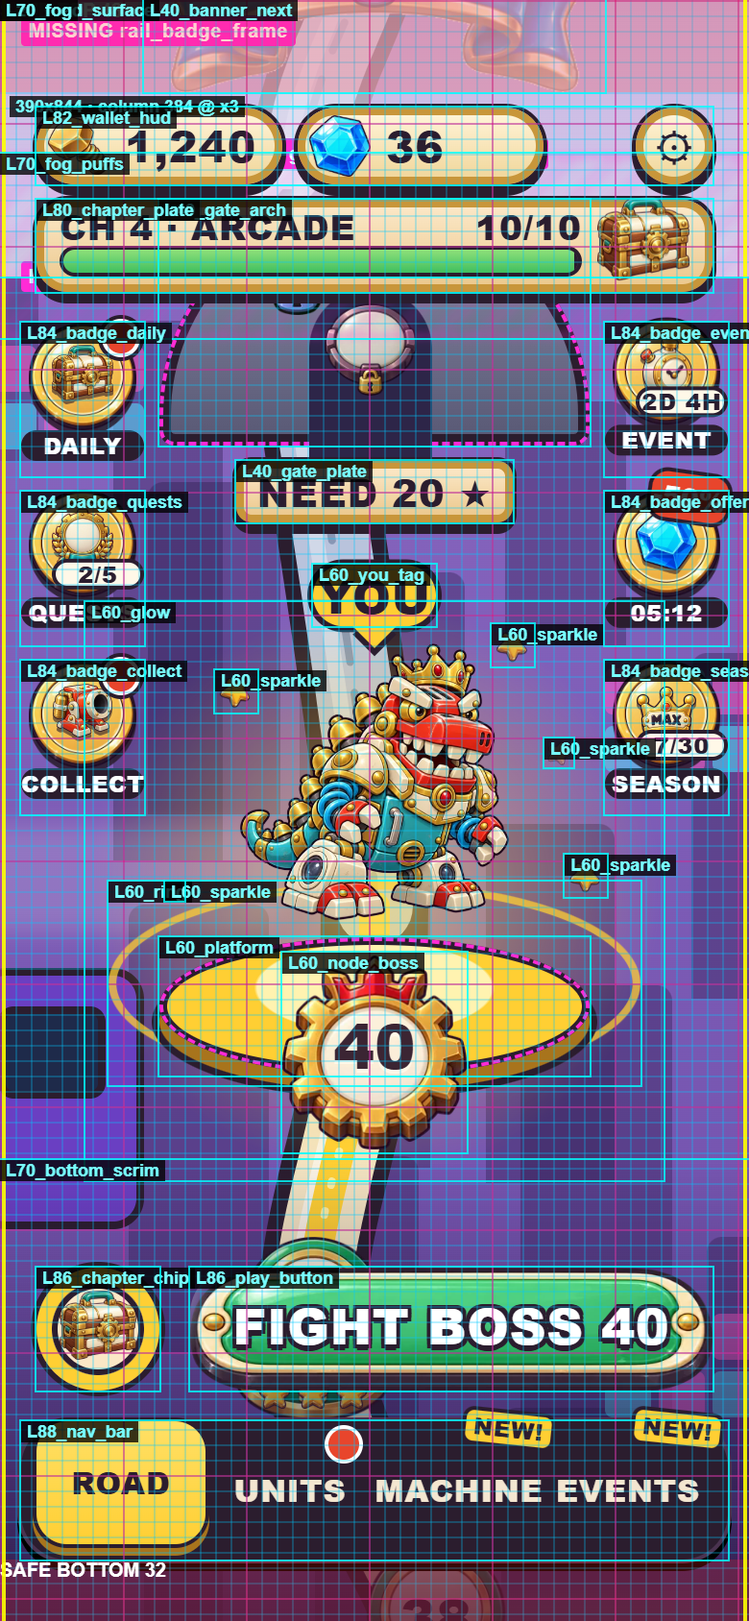
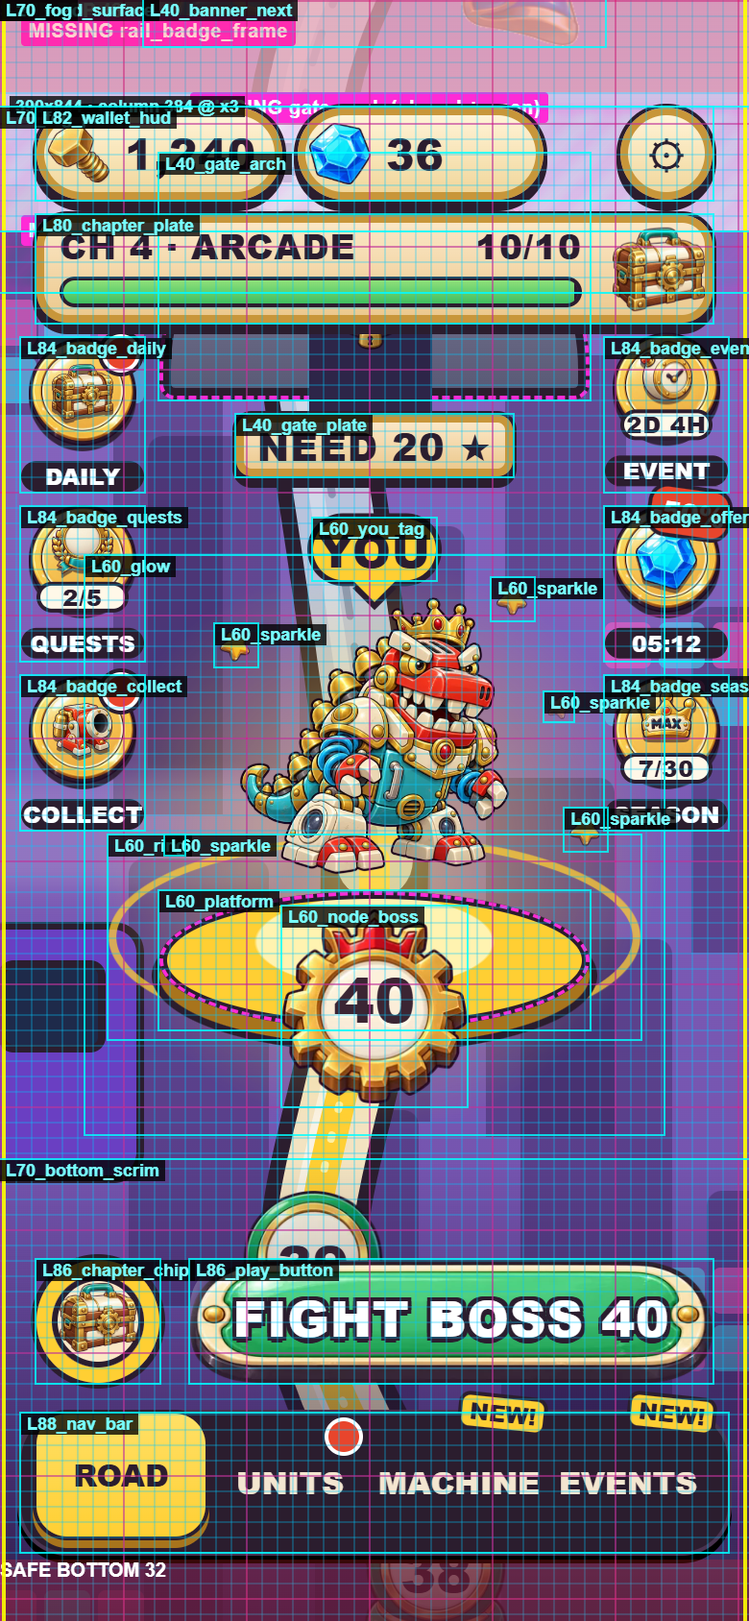
Road map mock: pixel check pass (8px grid, touch targets, text fit, layer order), audit mode, PIXEL_CHECK.md

diff --git a/art-candidates/mockups/road-map/index.html b/art-candidates/mockups/road-map/index.html
@@ -47,7 +47,7 @@ img{display:block;pointer-events:none}
 .a-chest{animation:chestRattle 3s ease-in-out infinite}.a-drift{animation:drift 38s linear infinite alternate}
 .glintwrap{overflow:hidden}.glintwrap::after{content:"";position:absolute;top:-10%;bottom:-10%;width:28%;left:0;background:linear-gradient(90deg,transparent,rgba(255,255,255,.75),transparent);animation:glint 3.4s ease-in-out infinite;pointer-events:none}
 /* ---- chrome ---- */
-.pill{height:40px;border-radius:20px;background:linear-gradient(#fff3d6,#f1d79c);border:4px solid var(--brass);box-shadow:0 0 0 2px var(--ink),0 4px 0 2px var(--ink);display:flex;align-items:center;gap:8px;padding:0 12px 0 4px;font-size:24px;line-height:32px}
+.pill{height:48px;border-radius:24px;background:linear-gradient(#fff3d6,#f1d79c);border:4px solid var(--brass);box-shadow:0 0 0 2px var(--ink),0 4px 0 2px var(--ink);display:flex;align-items:center;gap:8px;padding:0 12px 0 4px;font-size:24px;line-height:32px}
 .plate{background:linear-gradient(#fbe7c6,#ecc98e);border:4px solid var(--brass);border-radius:16px;box-shadow:0 0 0 2px var(--ink),0 4px 0 2px var(--ink)}
 .bar{height:16px;border-radius:8px;background:#5a4560;border:2px solid var(--ink);overflow:hidden;position:relative}
 .bar>i{position:absolute;left:0;top:0;bottom:0;background:linear-gradient(#8fe07a,#3fbf5f);border-right:2px solid var(--ink)}
@@ -61,8 +61,8 @@ img{display:block;pointer-events:none}
 .badge .coin{position:absolute;left:4px;top:0;width:56px;height:56px}
 .badge .coin img.base{position:absolute;inset:0;width:56px;height:56px;filter:drop-shadow(0 3px 0 rgba(43,29,46,.9))}
 .badge .coin img.ico{position:absolute;left:12px;top:10px;width:32px;height:32px}
-.badge .lab{position:absolute;left:0;top:56px;width:64px;height:16px;border-radius:8px;background:var(--ink);color:#fff;font-size:12px;line-height:16px;text-align:center;letter-spacing:.3px}
-.badge .chip{position:absolute;left:16px;top:36px;width:48px;height:16px;border-radius:8px;background:#fff8e8;border:2px solid var(--ink);font-size:12px;line-height:12px;text-align:center}
+.badge .lab{position:absolute;left:0;top:64px;width:64px;height:16px;border-radius:8px;background:var(--ink);color:#fff;font-size:12px;line-height:16px;text-align:center;letter-spacing:0;overflow:hidden}
+.badge .chip{position:absolute;left:8px;top:40px;width:48px;height:16px;border-radius:8px;background:#fff8e8;border:2px solid var(--ink);font-size:12px;line-height:12px;text-align:center}
 .badge .pct{position:absolute;right:-4px;top:-8px;width:40px;height:24px;background:var(--red);color:#fff;font-size:14px;line-height:24px;text-align:center;border-radius:8px;box-shadow:0 0 0 2px var(--ink);transform:rotate(8deg)}
 /* debug */
 #gridlay{position:absolute;inset:0;z-index:99;pointer-events:none;display:none;background-image:linear-gradient(to right,rgba(0,200,255,.28) 1px,transparent 1px),linear-gradient(to bottom,rgba(0,200,255,.28) 1px,transparent 1px);background-size:8px 8px}
@@ -80,9 +80,10 @@ const STATE=Q.get('state')||'normal', GRID=Q.get('grid')==='1', NAMES=Q.get('nam
 const W=+(Q.get('w')||390), H=+(Q.get('h')||844);
 const C=Math.floor(W/8)*8, X0=(W-C)/2;          // 8px content column, centred
 const SAFE_T=48, SAFE_B=32, S8=v=>Math.round(v/8)*8;
+const HB=Math.floor(H/8)*8;   // bottom-anchored layers hang from HB (840 / 776 / 928) so their y stays on the 8 grid; the 4 px slack sits inside the bottom safe area
 const INK='#2b1d2e';
 const P={normal:32,current:35,boss:40,locked:36,chapter:41,rails:32}[STATE];   // player's current level per state
-const FOCUS={normal:[32,.52],current:[35,.5],boss:[40,.56],locked:[40,.55],chapter:[41,.5],rails:[32,.58]}[STATE];
+const FOCUS={normal:[32,.52],current:[35,.5],boss:[40,.53],locked:[40,.55],chapter:[41,.5],rails:[32,.58]}[STATE];
 const phone=document.getElementById('phone');phone.style.cssText=`position:absolute;left:0;top:0;width:${W}px;height:${H}px;overflow:hidden`;
 const el=(tag,cls,st,parent,layer)=>{const e=document.createElement(tag);if(cls)e.className=cls;if(st)Object.assign(e.style,st);if(layer)e.dataset.layer=layer;(parent||phone).appendChild(e);return e};
 const img=(src,w,h,st,parent,cls)=>{const i=new Image();i.src=A+src+'.webp';i.width=w;i.height=h;i.style.cssText=`width:${w}px;height:${h}px;object-fit:contain`;if(cls)i.className=cls;if(st)Object.assign(i.style,st);(parent||phone).appendChild(i);return i};
@@ -94,7 +95,7 @@ const FIRST=27,LAST=44,PITCH=160;
 const wy={};{let y=3400;for(let n=FIRST;n<=LAST;n++){wy[n]=y;let gap=PITCH;if(n===39)gap=224;if(n===40)gap=352;if(n===30)gap=PITCH+48;y-=gap;}}   // chapter-4 entrance, boss gap, gate gap
 const DX=[0,48,72,40,-40,-72,-48,0], LIM=Math.min(C/2-136,56);
 const cx=n=>X0+C/2+Math.max(-LIM,Math.min(LIM,n===40?0:S8(DX[(n-FIRST)%8]*LIM/72)));
-const SCR=wy[FOCUS[0]]-S8(H*FOCUS[1]);
+const SCR=wy[FOCUS[0]]-S8(STATE==='boss'||STATE==='locked'?H*FOCUS[1]:Math.max(H*FOCUS[1],440));   // >=440 keeps the chest after L33 clear of the chapter plate on short phones
 const WH=3800;
 const world=el('div',null,{height:WH+'px',transform:`translateY(${-SCR}px)`},phone);world.id='world';
 const kind=n=>n===40?'boss':n===37?'mega':(n===35?'hard':'normal');
@@ -161,7 +162,7 @@ function node(n){
   if(locked){
     const lw=k==='boss'?96:88; if(k==='boss'){box(96,104,'node_boss',{filter:'saturate(.25) brightness(.8) hue-rotate(200deg)'});holder.style.top=y+'px'}
     else{box(88,88,'node_locked',{filter:'hue-rotate(185deg) saturate(.8) brightness(1.05)'});}
-    num(k==='boss'?0:-12,28,'#6d7a9b');return}
+    num(k==='boss'?0:-12,28,'#4f5d82');return}
 }
 function currentHero(h,n,k){
   const boss=k==='boss';
@@ -211,26 +212,26 @@ if(['normal','current','boss','rails'].includes(STATE)){
 // L70 bottom scrim keeps PLAY row legible
 el('div',null,{left:0,right:0,bottom:0,height:'240px',background:'linear-gradient(transparent,rgba(30,16,50,.78))',zIndex:70,pointerEvents:'none'},phone,'L70_bottom_scrim');
 // L80 chapter plate
-const cp=el('div','plate',{left:(X0+16)+'px',top:'104px',width:(C-32)+'px',height:'48px',borderRadius:'16px'},phone,'L80_chapter_plate');cp.style.zIndex=80;
-txt('CH 4 · ARCADE',18,INK,{position:'absolute',left:'8px',top:'-2px',lineHeight:'24px'},cp);
-const bar=el('div','bar',{position:'absolute',left:'8px',right:'64px',top:'20px'},cp);const fillPct=Math.max(0,Math.min(1,(Math.min(P,40)-30)/10));el('i',null,{width:(fillPct*100)+'%'},bar);
-txt(Math.max(0,Math.min(P,40)-30)+'/10',18,INK,{position:'absolute',right:'64px',top:'-2px',lineHeight:'24px'},cp);
-img('chest_closed',48,48,{position:'absolute',right:'8px',top:'-8px'},cp,STATE==='boss'?'a-wiggle':'');
+const cp=el('div','plate',{left:(X0+16)+'px',top:'112px',width:(C-32)+'px',height:'56px',borderRadius:'16px'},phone,'L80_chapter_plate');cp.style.zIndex=80;cp.dataset.tap='1';
+txt('CH 4 · ARCADE',18,INK,{position:'absolute',left:'8px',top:'0px',lineHeight:'24px'},cp);
+const bar=el('div','bar',{position:'absolute',left:'8px',right:'64px',top:'28px'},cp);const fillPct=Math.max(0,Math.min(1,(Math.min(P,40)-30)/10));el('i',null,{width:(fillPct*100)+'%'},bar);
+txt(Math.max(0,Math.min(P,40)-30)+'/10',18,INK,{position:'absolute',right:'64px',top:'0px',lineHeight:'24px'},cp);
+img('chest_closed',48,48,{position:'absolute',right:'0px',top:'0px'},cp,STATE==='boss'?'a-wiggle':'');
 // L82 wallet
-const wal=el('div',null,{left:(X0+16)+'px',right:(X0+16)+'px',top:'56px',height:'40px'},phone,'L82_wallet_hud');wal.style.zIndex=82;
-const pillW=(img_,s)=>{const p=el('div','pill txt',{width:'128px',position:'absolute',top:0,fontSize:'22px'},wal);p.style.left=s+'px';img(img_,32,32,{marginLeft:'-2px'},p);p.append('1,240');return p};
+const wal=el('div',null,{left:(X0+16)+'px',right:(X0+16)+'px',top:'56px',height:'48px'},phone,'L82_wallet_hud');wal.style.zIndex=82;
+const pillW=(img_,s)=>{const p=el('div','pill txt',{width:'128px',position:'absolute',top:0,fontSize:'22px'},wal);p.dataset.tap='1';p.style.left=s+'px';img(img_,32,32,{marginLeft:'-2px'},p);p.append('1,240');return p};
 pillW('bolt',0);const p2=pillW('icon_gem',136);p2.lastChild.textContent='36';
-const gear=el('div','pill',{position:'absolute',right:0,top:0,width:'40px',padding:0,justifyContent:'center',fontSize:'24px'},wal);gear.textContent='⚙';
+const gear=el('div','pill',{position:'absolute',right:0,top:0,width:'48px',padding:0,justifyContent:'center',fontSize:'24px'},wal);gear.dataset.tap='1';gear.textContent='⚙';
 // L84 badge rails
 const BADGES=[
  ['L','DAILY','chest_closed',{dot:1,wiggle:1}],['L','QUESTS','medal',{chip:'2/5'}],['L','COLLECT','cannon_4',{dot:1}],
  ['R','EVENT','icon_timer',{chip:'2d 4h'}],['R','OFFER','icon_gem',{pct:'-50%',chip:'05:12'}],['R','SEASON','crown',{chip:'7/30'}]];
 const li={L:0,R:0};
-BADGES.forEach(([side,name,ico,o])=>{const i=li[side]++;const x=side==='L'?X0+8:X0+C-72,y=168+i*88;
-  const b=el('div','badge',{left:x+'px',top:y+'px',zIndex:84},phone,'L84_badge_'+name.toLowerCase());
+BADGES.forEach(([side,name,ico,o])=>{const i=li[side]++;const x=side==='L'?X0+8:X0+C-72,y=176+i*88;
+  const b=el('div','badge',{left:x+'px',top:y+'px',zIndex:84},phone,'L84_badge_'+name.toLowerCase());b.dataset.tap='1';
   const bob=el('div',o.wiggle?'a-wiggle':'a-bob',{position:'absolute',inset:0,animationDelay:(-i*.5)+'s'},b);
   const coin=el('div','coin',null,bob);img('badge_bell',56,56,null,coin,'base');
-  img(ico,32,32,{position:'absolute',left:'12px',top:'10px',filter:'drop-shadow(0 2px 0 rgba(43,29,46,.6))'},coin);
+  img(ico,32,32,{position:'absolute',left:'12px',top:o.chip&&!o.pct?'4px':'12px',filter:'drop-shadow(0 2px 0 rgba(43,29,46,.6))'},coin);
   if(o.dot)el('div','dot',{right:'0',top:'0'},coin);
   if(o.pct){const p=el('div','pct',null,coin);p.textContent=o.pct}
   if(o.chip&&!o.pct){const c=el('div','chip txt',null,bob);c.textContent=o.chip}
@@ -240,33 +241,33 @@ BADGES.forEach(([side,name,ico,o])=>{const i=li[side]++;const x=side==='L'?X0+8:
 });
 sticker('rail_badge_frame',X0+8,8,phone).style.zIndex=99;
 // L86 bottom row: chapter chip + PLAY
-const chip=el('div',null,{left:(X0+16)+'px',top:(H-184)+'px',width:'64px',height:'64px',zIndex:86,borderRadius:'32px',background:`conic-gradient(var(--gold) ${Math.max(.05,fillPct)*360}deg,#5a4560 0)`,boxShadow:'0 0 0 3px '+INK},phone,'L86_chapter_chip');
+const chip=el('div',null,{left:(X0+16)+'px',top:(HB-184)+'px',width:'64px',height:'64px',zIndex:86,borderRadius:'32px',background:`conic-gradient(var(--gold) ${Math.max(.05,fillPct)*360}deg,#5a4560 0)`,boxShadow:'0 0 0 3px '+INK},phone,'L86_chapter_chip');chip.dataset.tap='1';
 el('div',null,{position:'absolute',inset:'8px',borderRadius:'24px',background:'var(--cream)',boxShadow:'inset 0 0 0 3px '+INK},chip);img('chest_closed',40,40,{position:'absolute',left:'12px',top:'10px'},chip);
-const pw=C-16-80-16,pl=el('div','glintwrap',{left:(X0+96)+'px',top:(H-184)+'px',width:pw+'px',height:'64px',zIndex:86,borderRadius:'24px'},phone,'L86_play_button');
+const pw=C-16-80-16,pl=el('div','glintwrap',{left:(X0+96)+'px',top:(HB-184)+'px',width:pw+'px',height:'64px',zIndex:86,borderRadius:'24px'},phone,'L86_play_button');pl.dataset.tap='1';
 img('btn_green',pw,64,{position:'absolute',inset:0,objectFit:'fill'},pl);
 const lvl=P>40?40:P;const pt=STATE==='boss'?'FIGHT BOSS 40':'PLAY LEVEL '+lvl;
 txt(pt,26,'#fff',{position:'absolute',left:0,right:0,top:'14px',textAlign:'center',lineHeight:'32px'},pl,'outl');
 // L88 nav
-const nav=el('div','nav',{left:(X0+8)+'px',top:(H-104)+'px',width:(C-16)+'px',height:'72px',zIndex:88},phone,'L88_nav_bar');
-const tw=(C-16-16)/4;[['ROAD',1],['UNITS'],['MACHINE'],['EVENTS']].forEach(([n,on],i)=>{const t=el('div','tab txt'+(on?' on':''),{left:(8+i*tw)+'px',width:(tw)+'px'},nav);t.textContent=n;t.style.fontSize=(C<368?'14px':'16px');if(n==='UNITS')el('div','dot',{right:'8px',top:'-4px'},t);if(i>=2){const g=el('div','tag',{right:'-4px',top:'-12px'},t);g.textContent='NEW!'}});
-nav.firstChild.style.left='8px';
+// tabs snap to 8: tw = floor((C-32)/4/8)*8 (88 / 80 / 96); bar = C-16 at X0+8; tab group centred (inner pad 8 / 8 / 12)
+const tw=Math.floor((C-32)/4/8)*8, navW=C-16, navX=X0+8, navPad=(navW-4*tw)/2;
+const nav=el('div','nav',{left:navX+'px',top:(HB-104)+'px',width:navW+'px',height:'72px',zIndex:88},phone,'L88_nav_bar');
+[['ROAD',1],['UNITS'],['MACHINE'],['EVENTS']].forEach(([n,on],i)=>{const t=el('div','tab txt'+(on?' on':''),{left:(navPad+i*tw)+'px',width:(tw)+'px',letterSpacing:'0'},nav);t.dataset.tap='1';t.dataset.gx=navX+navPad;t.textContent=n;t.style.fontSize=(tw<88?'14px':'16px');if(n==='UNITS')el('div','dot',{right:'8px',top:'-4px'},t);if(i>=2){const g=el('div','tag',{right:'0px',top:'-16px'},t);g.textContent='NEW!'}});
 
 /* ---------- state overlays ---------- */
 if(STATE==='rails'){
-  el('div',null,{inset:0,background:'rgba(20,10,30,.45)',zIndex:81},phone,'L90_dim').style.pointerEvents='none';
-  [['L',X0],['R',X0+C-80]].forEach(([s,x])=>{const r=el('div',null,{left:x+'px',top:'160px',width:'80px',height:'280px',border:'3px dashed var(--gold)',borderRadius:'16px',zIndex:89,background:'rgba(255,207,51,.08)'},phone,'L90_rail_outline_'+s)});
+  el('div',null,{inset:0,background:'rgba(20,10,30,.45)',zIndex:89},phone,'L90_dim').style.pointerEvents='none';   // above wallet, plate, play row and nav; below badges (90)
+  [['L',X0],['R',X0+C-80]].forEach(([s,x])=>{const r=el('div',null,{left:x+'px',top:'168px',width:'80px',height:'272px',border:'4px dashed var(--gold)',borderRadius:'16px',zIndex:89,background:'rgba(255,207,51,.08)'},phone,'L90_rail_outline_'+s)});
   // pull the badges above the dim
   document.querySelectorAll('[data-layer^=L84_badge]').forEach(b=>b.style.zIndex=90);
-  const tip=el('div','plate',{left:(X0+88)+'px',top:'168px',width:(C-176)+'px',height:'72px',zIndex:92,padding:'8px',transformOrigin:'0 50%',animation:'popIn .5s both'},phone,'L92_badge_tooltip');
-  txt('DAILY GIFT READY!',16,INK,{lineHeight:'24px'},tip);txt('TAP TO OPEN · +1 CRATE',12,'#6b4a2a',{lineHeight:'16px'},tip);
-  const pop=el('div',null,{left:(X0+C-176)+'px',top:'512px',width:'160px',height:'64px',zIndex:92},phone,'L92_rail_legend');
-  const lg=el('div','plate',{left:(X0+16)+'px',top:'472px',width:(C-32)+'px',height:'168px',zIndex:92,padding:'8px 12px'},phone,'L92_rail_legend_panel');
-  ['LEFT  daily · quests · collection','RIGHT  event · offer · season pass','64x80 badge · 88 pitch · max 3 a side','red dot = claimable · chip = timer'].forEach((s,i)=>txt(s,i<2?14:12,INK,{lineHeight:'24px',position:'absolute',left:'12px',top:(8+i*32)+'px'},lg));
+  const tip=el('div','plate',{left:(X0+80)+'px',top:'176px',width:(C-160)+'px',height:'64px',zIndex:92,padding:'0',transformOrigin:'0 50%',animation:'popIn .5s both'},phone,'L92_badge_tooltip');
+  txt('DAILY GIFT READY!',14,INK,{lineHeight:'24px',position:'absolute',left:0,right:0,top:'4px',textAlign:'center',letterSpacing:'0'},tip);txt('TAP TO OPEN · +1 CRATE',12,'#6b4a2a',{lineHeight:'16px',position:'absolute',left:0,right:0,top:'28px',textAlign:'center',letterSpacing:'0'},tip);
+  const lg=el('div','plate',{left:(X0+16)+'px',top:'456px',width:(C-32)+'px',height:'120px',zIndex:92,padding:'0'},phone,'L92_rail_legend_panel');
+  ['LEFT: DAILY · QUESTS · COLLECT','RIGHT: EVENT · OFFER · SEASON','BADGE 64x80 · PITCH 88 · MAX 3 A SIDE','RED DOT = CLAIMABLE · CHIP = TIMER'].forEach((s,i)=>txt(s,12,INK,{lineHeight:'16px',position:'absolute',left:'0',right:'0',textAlign:'center',top:(8+i*24)+'px',letterSpacing:'0'},lg));
 }
 if(STATE==='locked'){
-  const back=el('div','plate a-bob',{left:(X0+C/2-72)+'px',top:(H-184-48)+'px',width:'144px',height:'32px',zIndex:87,borderRadius:'16px'},phone,'L87_back_to_me');txt('▼ BACK TO ME · 36',14,INK,{position:'absolute',left:0,right:0,top:'0',textAlign:'center',lineHeight:'24px'},back);
+  const back=el('div','plate a-bob',{left:(X0+C/2-88)+'px',top:(HB-184-40)+'px',width:'176px',height:'32px',zIndex:87,borderRadius:'16px'},phone,'L87_back_to_me');back.dataset.tap='1';back.dataset.hit='48';txt('▼ BACK TO ME · 36',14,INK,{position:'absolute',left:0,right:0,top:'0',textAlign:'center',lineHeight:'24px',letterSpacing:'0'},back);
   const x=cx(40),y=wy[40]-SCR;
-  const b=el('div','plate',{left:(X0+C/2-112)+'px',top:S8(y+64)+'px',width:'224px',height:'48px',zIndex:62,padding:'0',textAlign:'center',animation:'popIn .5s both'},phone,'L62_locked_toast');
+  const b=el('div','plate',{left:(X0+C/2-112)+'px',top:Math.min(S8(y+56),HB-184-40-8-48)+'px',width:'224px',height:'48px',zIndex:62,padding:'0',textAlign:'center',animation:'popIn .5s both'},phone,'L62_locked_toast');
   txt('LOCKED · BEAT LEVEL 39',14,INK,{lineHeight:'16px',position:'absolute',left:0,right:0,top:'4px',textAlign:'center'},b);txt('THEN CLEAR THE GATE',12,'#6b4a2a',{position:'absolute',left:0,right:0,top:'20px',textAlign:'center',lineHeight:'16px'},b);
 }
 if(STATE==='chapter'){
@@ -275,7 +276,7 @@ if(STATE==='chapter'){
   const pan=el('div',null,{left:px+'px',top:py+'px',width:pw2+'px',height:'464px',zIndex:95,animation:'popIn .55s both',transformOrigin:'50% 60%'},phone,'L95_chapter_panel');
   img('kit3_panel_popup',pw2,464,{position:'absolute',inset:0,objectFit:'fill'},pan);
   const rib=el('div',null,{left:((pw2-240)/2)+'px',top:'-40px',width:'240px',height:'112px'},pan,'L95_panel_ribbon');img('kit3_ribbon_purple',240,112,null,rib);txt('CHAPTER 5',28,'#fff',{position:'absolute',left:0,right:0,top:'26px',textAlign:'center',lineHeight:'32px'},rib,'outl');
-  txt('MUSIC ATTIC',36,INK,{position:'absolute',left:0,right:0,top:'80px',textAlign:'center',lineHeight:'40px'},pan);
+  txt('MUSIC ATTIC',32,INK,{position:'absolute',left:'24px',right:'24px',top:'80px',textAlign:'center',lineHeight:'40px',letterSpacing:'0'},pan);
   const pic=el('div','missing',{position:'absolute',left:'24px',top:'136px',width:(pw2-48)+'px',height:'128px',borderRadius:'16px',border:'4px solid '+INK,overflow:'hidden'},pan,'L95_panel_scene');
   img('stage_ch5',pw2-56,120,{objectFit:'cover'},pic);
   const bs=img('boss_piano_saurus_rex_intact',104,104,{position:'absolute',right:'8px',top:'-24px'},pic);
@@ -283,7 +284,7 @@ if(STATE==='chapter'){
   txt('10 LEVELS · BOSS: PIANO-SAURUS REX',12,'#6b4a2a',{position:'absolute',left:0,right:0,top:'280px',textAlign:'center',lineHeight:'16px'},pan);
   const row=el('div',null,{position:'absolute',left:'24px',top:'304px',width:(pw2-48)+'px',height:'72px',display:'flex',gap:'8px'},pan,'L95_reward_row');
   [['chest_closed','CRATE','x2'],['icon_gem','GEMS','+5'],['icon_bolt','BOLTS','+300']].forEach(([ic,l,v],i)=>{const c=el('div',null,{flex:'1',height:'72px',borderRadius:'12px',background:'#f6dba6',border:'3px solid '+INK,position:'relative',animation:`popIn .4s ${.35+i*.1}s both`},row);img(ic,40,40,{position:'absolute',left:'50%',marginLeft:'-20px',top:'4px'},c);txt(v,18,INK,{position:'absolute',left:0,right:0,top:'44px',textAlign:'center',lineHeight:'20px'},c)});
-  const go=el('div','glintwrap',{position:'absolute',left:((pw2-224)/2)+'px',top:'392px',width:'224px',height:'56px',borderRadius:'20px'},pan,'L95_go_button');img('btn_green',224,56,{position:'absolute',inset:0,objectFit:'fill'},go);txt("LET'S GO!",26,'#fff',{position:'absolute',left:0,right:0,top:'10px',textAlign:'center',lineHeight:'32px'},go,'outl');
+  const go=el('div','glintwrap',{position:'absolute',left:((pw2-224)/2)+'px',top:'392px',width:'224px',height:'56px',borderRadius:'20px'},pan,'L95_go_button');go.dataset.tap='1';img('btn_green',224,56,{position:'absolute',inset:0,objectFit:'fill'},go);txt("LET'S GO!",26,'#fff',{position:'absolute',left:0,right:0,top:'10px',textAlign:'center',lineHeight:'32px'},go,'outl');
   const bl=bolt(px+pw2-72,py+440,phone,'L96_bolt_peek','a-hop');bl.style.zIndex=96;
   for(let i=0;i<10;i++){const e=img('star',[16,24,16,24,16][i%5],[16,24,16,24,16][i%5],{position:'absolute',left:(X0+16+((i*113)%(C-32)))+'px',top:(py-24+((i*71)%520))+'px',zIndex:96,animation:`twinkle 1.4s ${-i*.2}s infinite`},phone);e.dataset.layer='L96_confetti'}
 }
@@ -298,5 +299,36 @@ function debug(){
   if(NAMES){document.querySelectorAll('[data-layer]').forEach(e=>{const r=e.getBoundingClientRect();if(r.width<8||r.bottom<0||r.top>H||e.dataset.layer.startsWith('L00')||e.dataset.layer.startsWith('L10'))return;
     const lb=el('div','lname',{left:Math.max(0,r.left)+'px',top:Math.max(0,r.top)+'px'},phone);lb.textContent=e.dataset.layer;el('div','lbox',{left:r.left+'px',top:r.top+'px',width:r.width+'px',height:r.height+'px'},phone)})}
 }
-requestAnimationFrame(()=>{document.getAnimations().forEach(a=>{try{a.pause();a.currentTime=T}catch(e){}});debug();document.title='READY';});
+/* ?audit=1: measured checks printed into a pre element (run with --dump-dom). Pixel Checker tool, not part of the mock. */
+function audit(){
+  const out=[],R=e=>e.getBoundingClientRect(),inUi=e=>!world.contains(e);
+  const taps=[...document.querySelectorAll('[data-tap]')].filter(e=>!(e.closest('[data-layer]')&&e.closest('[data-layer]').dataset.layer==='L90_dim'));
+  const modal=STATE==='chapter';
+  taps.forEach(e=>{const r=R(e),h=+(e.dataset.hit||0),L=e.dataset.layer||e.textContent.slice(0,10),w=Math.max(r.width,h),hh=Math.max(r.height,h);
+    // transforms (popIn/wiggle/bob) are frozen at T; rect is the visible box
+    if(w<43.5||hh<43.5)out.push(`TAP<44 ${L} ${r.width.toFixed(0)}x${r.height.toFixed(0)}`);
+    if(!modal||e.dataset.layer==='L95_go_button'){ if(r.top<SAFE_T||r.bottom>H-SAFE_B+4)out.push(`SAFE ${L} y ${r.top.toFixed(0)}-${r.bottom.toFixed(0)}`);}
+    if(r.left<0||r.right>W)out.push(`CLIP-X ${L} x ${r.left.toFixed(0)}-${r.right.toFixed(0)}`);
+    // grid: x from the column (or the tab group origin), y from the top; centred boxes may sit on a half step; bob/wiggle read from style
+    const centred=Math.abs((r.left+r.right)/2-(X0+C/2))<.6, base=e.dataset.gx?+e.dataset.gx:X0, top=e.style.top&&/a-bob|a-wiggle/.test(e.className)?parseFloat(e.style.top):r.top;
+    const m8=v=>{const k=((v%8)+8)%8;return Math.min(k,8-k)};
+    if((m8(r.left-base)>.6&&!(centred&&m8(r.left-base)<=4.01))||m8(top)>.6)out.push(`GRID ${L} x${(r.left-base).toFixed(1)} y${top.toFixed(1)}${centred?' (centred)':''}`);
+  });
+  // overlaps between tap targets (modal: only the panel's own)
+  const live=taps.filter(e=>modal?e.dataset.layer==='L95_go_button':true);
+  for(let i=0;i<live.length;i++)for(let j=i+1;j<live.length;j++){const a=R(live[i]),b=R(live[j]);const ox=Math.min(a.right,b.right)-Math.max(a.left,b.left),oy=Math.min(a.bottom,b.bottom)-Math.max(a.top,b.top);if(ox>2&&oy>2)out.push(`OVERLAP ${live[i].dataset.layer||live[i].textContent.slice(0,8)} x ${live[j].dataset.layer||live[j].textContent.slice(0,8)} ${ox.toFixed(0)}x${oy.toFixed(0)}`)}
+  // text: min size + overflow of its own box
+  document.querySelectorAll('.txt,.num,.chip,.lab,.tag,.pct').forEach(e=>{if(e.closest('.sticker,.lname'))return;const fs=parseFloat(getComputedStyle(e).fontSize);const r=R(e);if(r.bottom<0||r.top>H)return;
+    if(fs<12)out.push(`FONT<12 "${e.textContent.slice(0,14)}" ${fs}`);
+    const rg=document.createRange();rg.selectNodeContents(e.firstChild&&e.firstChild.nodeType===3?e.firstChild:e);const tr=rg.getBoundingClientRect();const par=e.closest('.badge,.plate,.pill,.tab,.btn,.glintwrap')||e;const pr=R(par);
+    if(tr.width>0&&(tr.left<pr.left-1||tr.right>pr.right+1)&&!e.classList.contains('num')&&!(e.closest('#world')))out.push(`TEXT-OVER "${e.textContent.slice(0,16)}" text ${tr.left.toFixed(0)}-${tr.right.toFixed(0)} box ${pr.left.toFixed(0)}-${pr.right.toFixed(0)}`);});
+  // screen layers must not overlap each other (decor, dims, scrim, mascot, confetti and the modal's own children excluded)
+  const SKIP=/^(L70|L90|L96|L65|L99|L95_(panel|reward|go))/;
+  const sl=[...phone.children].filter(e=>e.dataset.layer&&!SKIP.test(e.dataset.layer)&&!(modal&&!/^L9[25]/.test(e.dataset.layer)));
+  for(let i=0;i<sl.length;i++)for(let j=i+1;j<sl.length;j++){const a=R(sl[i]),b=R(sl[j]);const ox=Math.min(a.right,b.right)-Math.max(a.left,b.left),oy=Math.min(a.bottom,b.bottom)-Math.max(a.top,b.top);if(ox>1&&oy>1)out.push(`LAYER-OVERLAP ${sl[i].dataset.layer} x ${sl[j].dataset.layer} ${ox.toFixed(0)}x${oy.toFixed(0)}`)}
+  document.querySelectorAll('.tab').forEach(e=>{const rg=document.createRange();rg.selectNodeContents(e.firstChild);const t=rg.getBoundingClientRect(),r=R(e);out.push(`INFO tab ${e.textContent} box ${r.width.toFixed(0)} text ${t.width.toFixed(0)}`)});
+  const pre=document.createElement('pre');pre.id='audit';pre.textContent=`AUDIT ${STATE} ${W}x${H} C=${C} X0=${X0}\n`+(out.filter(s=>!s.startsWith('INFO')).length?out.join('\n'):'CLEAN\n'+out.join('\n'));document.body.appendChild(pre);
+}
+const finish=()=>{document.getAnimations().forEach(a=>{try{a.pause();a.currentTime=T}catch(e){}});debug();if(Q.get('audit')==='1')audit();document.title='READY';};
+if(Q.get('audit')==='1')setTimeout(finish,300);else requestAnimationFrame(finish);
 </script></body></html>

diff --git a/docs/art/mocks/road-map/PIXEL_CHECK.md b/docs/art/mocks/road-map/PIXEL_CHECK.md
@@ -1,0 +1,77 @@
+# ROAD MAP mock: pixel check (step 2 of the mock chain)
+
+Pixel Checker, mission m-f522637e, task t-1a8c93b7, 2026-10-15. Fixes were made directly in `art-candidates/mockups/road-map/index.html`; nothing in `src/` was touched. The 18 clean PNGs and 6 annotated PNGs in that folder were re-rendered (they are the AFTER shots).
+
+**Verdict: PASS.** 0 OPEN items. 5 notes (N1 to N5) below are accepted limits, not defects; the missing-art list is at the end.
+
+## How it was measured
+
+`index.html?state=<s>&w=<W>&h=<H>&audit=1` now prints a machine check (tap size, safe area, off-screen clip, 8 px grid, tap overlap, screen-layer overlap, text under 12 px, text wider than its box). Run on all 6 states x 3 sizes = 18 runs. Result after the fixes: **CLEAN in 18 of 18**. Negative control: a copy with a 40 px gear and a too-wide tooltip was flagged (`TAP<44`, `TEXT-OVER`), so the audit does catch these faults. Contrast and look checks were done by eye on the renders.
+
+Before shots (old render) are in `docs/art/mocks/road-map/pixel_check/before/` (7 files: normal at all three sizes, plus locked 360, chapter 360, rails 360, boss 430). After shots are the same file names in `art-candidates/mockups/road-map/`.
+
+Phones: 360x780 (column C = 360), 390x844 (C = 384, X0 = 3), 430x932 (C = 424, X0 = 3). Note: at 360 the column is the whole width, so the SPEC value 352 was wrong.
+
+## Check table
+
+| # | Check | Sizes | Result | What was found / done |
+|---|---|---|---|---|
+| 1 | Bottom row, nav y on 8 px grid | all | FIXED | Bottom-anchored layers hung from `H` (844, 780, 932), so y was 4 off (chip, PLAY, nav, back pill). Now hang from `HB = floor(H/8)*8` (840 / 776 / 928); the 4 px slack sits inside the home-bar safe area. |
+| 2 | x on 8 px grid (from column) | all | PASS | All tap targets sit on 8 from X0. Centred items (back pill, panel buttons, tab group) may sit on a half step (N1). |
+| 3 | Nav tab widths | 430 | FIXED | Tab was 98 wide (off grid). Now `floor((C-32)/4/8)*8` = 80 / 88 / 96; the tab group is centred in the bar (inner pad 12 / 8 / 12). |
+| 4 | Nav text fit, no collision | all | FIXED | MACHINE and EVENTS touched at 16 px and the NEW tag sat on the bar edge. Letter spacing 0, 14 px when the tab is under 88, tag moved to the tab corner. Text 84 of 88 px (fallback font is wider than Lilita One). |
+| 5 | Touch targets >= 44 | all | FIXED | Gear 40 -> 48; wallet pills 40 -> 48 high; chapter plate 48 -> 56. All others >= 48 (badges 64x80, chip 64, PLAY 64, tabs 56, go 56). BACK TO ME pill is 32 visible with a 48 hit area (`data-hit`). |
+| 6 | Safe area top 48 | all | PASS | Nothing interactive above y 56. Only the debug MISSING sticker sits in the band. |
+| 7 | Safe area bottom 32 | all | PASS | Nav ends at HB-32 (808 / 744 / 896), 4 px clear of the home bar line. |
+| 8 | Margins and gutters | all | PASS | HUD, plate, bottom row 16; rail badges 8 from the column edge (decoration weight, SPEC 2). Wallet-to-plate gap 8; plate-to-first-badge gap 8. |
+| 9 | HUD stack | all | FIXED | Chapter chest poked 8 px over the plate and touched the gear. Plate is now 56 high (112 to 168), chest 48 sits inside. Rails moved 168 -> 176 (pitch 88 kept). |
+| 10 | Badge: icon vs chip overlap | all | FIXED | The timer / count chip covered most of the icon (QUESTS, EVENT, SEASON). Icon moves up to y 4 when a chip is present, chip is centred at y 40 (48x16), label at y 64. Badge box stays 64x80. |
+| 11 | Badge label text fit | all | FIXED | COLLECT / SEASON ran past the 64 px pill at 12 px + 0.3 tracking. Tracking 0 and overflow hidden; text now inside the pill. |
+| 12 | Min text size 12 | all | PASS | Smallest text anywhere is 12 px (badge labels, chips, captions). Debug stickers excluded. |
+| 13 | Text contrast | all | FIXED | Locked level numbers `#6d7a9b` on silver (about 3.6:1) darkened to `#4f5d82` (about 5.5:1). Others checked: ink on cream, white-outlined on green / purple, white on `#5d6d92` chips (5.3:1), `#6b4a2a` on cream (about 6:1): PASS. |
+| 14 | Text outline on coloured plates | all | PASS | White text on green, purple, red uses the 2 px ink outline (`.outl`). |
+| 15 | Locked toast vs BACK TO ME pill | 360, 390 | FIXED | Toast and pill touched; pill text `36` was clipped (144 wide). Pill 176 wide, 8 above PLAY; toast is capped to end 8 above the pill. |
+| 16 | Chest L34 hidden under chapter plate | 360, 390 | FIXED | At 360 the road chest sat behind the plate. The current node is now placed at max(52% of H, 440), so the chest top clears y 168. |
+| 17 | Boss view: L39 behind PLAY | 430 | FIXED | Boss focus 56% -> 53%; L39 now sits above the bottom row. |
+| 18 | Dim layer order (rails state) | all | FIXED | The dim (z 81) left wallet bright and plate dim. Dim is now z 89: wallet, plate, PLAY row and nav are dimmed together; badges (90) and tooltip (92) stay lit. |
+| 19 | Rails tooltip and legend | 360 | FIXED | Tooltip text overran its box; legend was 168 tall with text on the border. Tooltip spans X0+80 to the right rail minus 8 (8 px gap to both rails), text 14 / 12 px centred. Legend 120 tall, 4 centred 12 px lines, moved up to y 456 so it no longer overlaps the chapter chip and PLAY row. |
+| 20 | Chapter panel title | 360, 390 | FIXED | MUSIC ATTIC at 36 px touched both panel edges. Now 32 px in a 24-inset box. |
+| 21 | Overlaps between screen layers | all | PASS | 0 overlaps among wallet, plate, badges, chip, PLAY, back pill, toast, nav, tooltip, legend (audit). |
+| 22 | Intentional overlaps | all | PASS | Number plate over platform, hero over platform, YOU tag over hero, chest chip over coin bottom: by design. |
+| 23 | Clipping at the screen edge | all | PASS | No tap target leaves 0..W. Right-rail -50% tag ends 4 px inside the screen. |
+| 24 | Layer order | all | PASS | Matches SPEC section 5: scenery 0, props 10, road 20, gate / banners 40, nodes 50, chests 55, hero 60, toast 62, Bolt 65, fog 70, plate 80, wallet 82, badges 84, bottom row 86, nav 88, dim 89/90, tooltip 92, panel 95, Bolt peek / confetti 96. Wallet pills (82) sit above the plate (80) they never touch. |
+| 25 | Icon and badge consistency | all | PASS | Six badges share one coin (`badge_bell`), one 32 px icon box, same label pill, same chip, same dot. Chip-less badges (DAILY, COLLECT) put the icon at y 12; chip badges at y 4, so icon centres differ by 8 (N2). |
+| 26 | Rank / readability rules | all | PASS | Node states differ in 3 ways: colour (green / white-blue / gold hero), size (80x96 done, 88 locked, 176 platform), star pips. Done, current, locked and boss read apart in grayscale (done dark ring, locked pale, hero gold plate). Unit ranks are not part of this screen. |
+| 27 | Road scroll-under | 360 | PASS (N3) | Node 31 sits half under the PLAY scrim at 360. Scrolling content passing behind the bottom row is normal; the current node and the next two are fully clear. |
+
+## Notes (accepted, not open)
+
+- N1. Centred items (back pill, panel buttons, nav tab group at 360 and 430) land on a 4 px half step because C minus the item width is not a multiple of 16. Visual centring wins over the grid there.
+- N2. Chip-less badges (DAILY, COLLECT) have the icon 8 px lower than chip badges. If the final badge art has a chip slot built in, remove this offset.
+- N3. At 360x780 the road viewport is about 4 nodes; node 31 is partly hidden by the PLAY row.
+- N4. The mock still renders in Arial Black (Lilita One not installed); real text is narrower, so every fit above is the worst case.
+- N5. The legend text is 12 px caps with 0 tracking at 360; that is the minimum allowed size.
+
+## OPEN items
+
+None.
+
+## Art that is still missing (the Asset Breaker should list these as NEEDS-ART)
+
+Unchanged from SPEC section 8; the placeholders are still magenta-marked, so none of them blocks PASS on layout:
+
+1. `rail_badge_frame` (round medallion with label ribbon, dot, chip slot, % tag). Needed size 64x80 per badge, chip slot 48x16 at y 40, icon box 32x32.
+2. `bolt_pose_*` (idle, hop, point, peek, worried), about 64x72 each.
+3. `road_surface_kit` (path material, endcaps, junctions), 40 px surface and 56 px outline widths.
+4. `gate_arch` closed and open, 224x128.
+5. `scenery_ch4_panel`, `scenery_ch5_panel` (one tall painted panel per chapter, no tiling), plus `scenery_ch5_card` 272x120.
+6. `prop_sheet_ch4`, `fog_banks`, `avatar_platform` (normal 176x56, boss 224x72).
+7. Dedicated rail icons (quests, collection, daily, event, offer, season) 32x32, and a settings gear.
+8. Cool-blue locked variants of `node_locked` and `node_boss` (now a CSS hue-rotate).
+
+## Files changed
+
+- `art-candidates/mockups/road-map/index.html` (fixes plus `?audit=1`)
+- `art-candidates/mockups/road-map/roadmap_*.png`, `annotated_*.png` (re-rendered)
+- `docs/art/mocks/road-map/PIXEL_CHECK.md` (this file), `docs/art/mocks/road-map/pixel_check/before/*.png`
+- `docs/art/mocks/road-map/SPEC.md` (section 2 anchors updated)

diff --git a/docs/art/mocks/road-map/SPEC.md b/docs/art/mocks/road-map/SPEC.md
@@ -33,20 +33,20 @@ Chapter content is CH 4 ARCADE (levels 31 to 40, boss at 40); the entrance panel
 - Side margin 16 for HUD, plate, bottom row; rail badges sit at margin 8 (they are decoration-weight, 64 wide).
 - Text line boxes are font size + 4 px (the only non-8 values besides strokes and 4 px borders).
 
-### Screen anchors (y from top unless marked; B = from bottom)
+### Screen anchors (y from top unless marked; HB = floor(H/8)*8 = 840 / 776 / 928 for bottom-anchored rows; at 360 wide C = 360 and X0 = 0; updated by the Pixel Checker, see PIXEL_CHECK.md)
 
 | Element | x | y | w x h |
 |---|---|---|---|
-| Wallet: bolts pill | X0+16 | 56 | 128x40 |
-| Wallet: gems pill | X0+152 | 56 | 128x40 |
-| Wallet: settings gear | X0+C-56 | 56 | 40x40 |
-| Chapter plate | X0+16 | 104 | (C-32)x48 |
-| Rail left badge i (0..2) | X0+8 | 168 + 88 i | 64x80 |
-| Rail right badge i (0..2) | X0+C-72 | 168 + 88 i | 64x80 |
-| Chapter chip (ring + chest) | X0+16 | H-184 | 64x64 |
-| PLAY / FIGHT button | X0+96 | H-184 | (C-112)x64 |
-| BACK TO ME pill (only when scrolled away) | centred | H-232 | 144x32 |
-| Nav bar | X0+8 | H-104 | (C-16)x72 |
+| Wallet: bolts pill | X0+16 | 56 | 128x48 |
+| Wallet: gems pill | X0+152 | 56 | 128x48 |
+| Wallet: settings gear | X0+C-64 | 56 | 48x48 |
+| Chapter plate | X0+16 | 112 | (C-32)x56 |
+| Rail left badge i (0..2) | X0+8 | 176 + 88 i | 64x80 (icon y 4 with chip else 12, chip 48x16 at y 40, label y 64) |
+| Rail right badge i (0..2) | X0+C-72 | 176 + 88 i | 64x80 |
+| Chapter chip (ring + chest) | X0+16 | HB-184 | 64x64 |
+| PLAY / FIGHT button | X0+96 | HB-184 | (C-112)x64 |
+| BACK TO ME pill (only when scrolled away) | centred | HB-224 | 176x32 (hit area 48) |
+| Nav bar | X0+8 | HB-104 | (C-16)x72, tabs 80 / 88 / 96 wide, centred |
 | Bottom scrim | 0 | B 0 | W x 240 |
 
 Road viewport = y 152 to H-184 (about 4 to 5 nodes). The current node sits at 50 to 52 percent of H (56 percent for the boss, 55 for the locked look-ahead). The path stays inside `centre ± min(C/2-136, 56)` so the hero platform (176 wide) never touches the rails (x ≤ 72 and ≥ C-72).
